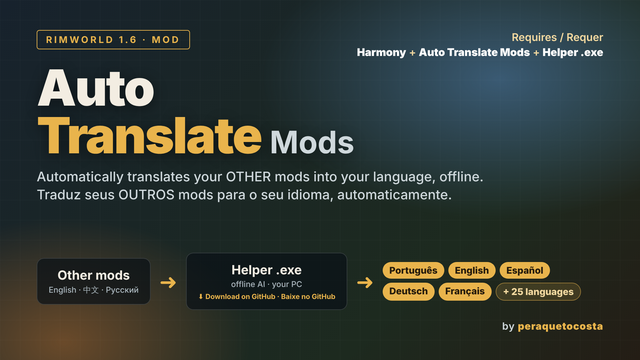
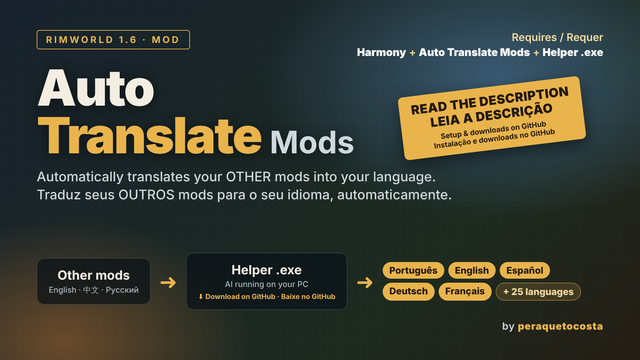
v0.017: capa com faixa 'leia a descrição' e texto sem 'offline'
- Alterado: capa do mod: faixa diagonal "Leia a descrição / Read the description" com "Instalação e downloads no GitHub", e a palavra "offline" saiu (a frase agora diz só que traduz automaticamente).
- Corrigido: README (português e inglês) e descrição do mod no jogo diziam que funciona "sem internet"/"offline"; agora dizem que a tradução é no seu computador, de graça, e que não precisa de internet depois de baixar o modelo do idioma uma vez.

Changed region(s): [[0.625, 0.2139, 0.9375, 0.5194], [0.3438, 0.7639, 0.5, 0.825]]

diff --git a/assets/cover.html b/assets/cover.html
@@ -17,17 +17,21 @@ h1 em{font-style:normal;font-weight:700;color:#cfd8dc;font-size:.62em;letter-spa
 .chip{background:#e9b44c;color:#241a0c;font-weight:800;font-size:28px;padding:8px 20px;border-radius:40px}
 .chip.alt{background:rgba(233,180,76,.16);color:#f3d9a0;border:2px solid rgba(233,180,76,.5)}
 .author{position:absolute;right:0;bottom:-6px;font-size:30px;color:#cfd8dc;font-weight:600;letter-spacing:.04em}.author b{color:#e9b44c}
+.ribbon{position:absolute;right:60px;top:170px;transform:rotate(-7deg);background:#e9b44c;color:#241a0c;padding:20px 36px;border-radius:14px;box-shadow:0 18px 50px rgba(0,0,0,.5);text-align:center}
+.ribbon b{display:block;font-size:38px;font-weight:900;letter-spacing:.02em;line-height:1.15}
+.ribbon span{display:block;font-size:22px;font-weight:700;margin-top:10px}
 .need{position:absolute;right:0;top:0;text-align:right;font-size:32px;color:#f3d9a0;line-height:1.4;font-weight:600}
 .need b{color:#fff}
 </style></head><body><div class="grid"></div><div class="wrap">
 <div class="tag">RimWorld 1.6 · Mod</div>
 <h1>Auto<br><span>Translate</span> <em>Mods</em></h1>
-<div class="sub">Automatically translates your OTHER mods into your language, offline.<br>Traduz seus OUTROS mods para o seu idioma, automaticamente.</div>
+<div class="sub">Automatically translates your OTHER mods into your language.<br>Traduz seus OUTROS mods para o seu idioma, automaticamente.</div>
 <div class="need">Requires / Requer<br><b>Harmony</b> + <b>Auto Translate Mods</b> + <b>Helper .exe</b></div>
 <div class="flow">
 <div class="box">Other mods<small>English · 中文 · Русский</small></div>
 <div class="arrow">➜</div>
-<div class="box">Helper .exe<small>offline AI · your PC</small><small style="color:#e9b44c;font-weight:700;margin-top:10px;font-size:21px">⬇ Download on GitHub · Baixe no GitHub</small></div>
+<div class="box">Helper .exe<small>AI running on your PC</small><small style="color:#e9b44c;font-weight:700;margin-top:10px;font-size:21px">⬇ Download on GitHub · Baixe no GitHub</small></div>
 <div class="arrow">➜</div>
 <div class="langs"><span class="chip">Português</span><span class="chip">English</span><span class="chip">Español</span><span class="chip">Deutsch</span><span class="chip">Français</span><span class="chip alt">+ 25 languages</span></div>
-</div><div class="author">by <b>peraquetocosta</b></div></div></body></html>
+</div><div class="ribbon"><b>READ THE DESCRIPTION<br>LEIA A DESCRIÇÃO</b><span>Setup &amp; downloads on GitHub<br>Instalação e downloads no GitHub</span></div>
+<div class="author">by <b>peraquetocosta</b></div></div></body></html>

diff --git a/helper/rwtranslate/__init__.py b/helper/rwtranslate/__init__.py
@@ -1,1 +1,1 @@
-__version__ = "0.016.0"
+__version__ = "0.017.0"

diff --git a/README.md b/README.md
@@ -10,12 +10,12 @@
 
 <div align="justify">
 
-**Versão atual: 0.016** · [Baixar na aba Releases](../../releases/latest)
+**Versão atual: 0.017** · [Baixar na aba Releases](../../releases/latest)
 
 Traduz **automaticamente** os outros mods do seu jogo para o seu idioma, **sem precisar de um mod de tradução para cada mod**.
-A tradução é feita **no seu computador, sem internet e de graça**. Cada tradução fica salva, então ela só é feita uma vez.
+A tradução é feita **no seu computador e de graça**. Depois de baixar uma vez o modelo do seu idioma, **não precisa de internet**. Cada tradução fica salva, então ela só é feita uma vez.
 
-> **Em desenvolvimento.** Este projeto foi feito com a ajuda do **Claude** (IA da Anthropic) e ainda está em fase inicial (versão atual 0.016). Veja "Estado atual" abaixo.
+> **Em desenvolvimento.** Este projeto foi feito com a ajuda do **Claude** (IA da Anthropic) e ainda está em fase inicial (versão atual 0.017). Veja "Estado atual" abaixo.
 
 <h2 align="left">Compatibilidade</h2>
 
@@ -122,7 +122,7 @@ Com o **modo desenvolvedor** do RimWorld ligado, o próprio jogo marca os textos
 
 <h2 align="left">Estado atual (transparência)</h2>
 
-Esta é uma **versão inicial** (versão atual 0.016), feita com a ajuda do Claude. O mod compila contra a API do RimWorld 1.6 e o código passou nos testes automáticos (inclusive o teste da janela do executável no Windows do GitHub), mas **ainda não foi testado a fundo dentro do RimWorld** nem com muitos mods reais. Podem aparecer erros, principalmente com mods que mexem nos mesmos textos. **A tradução automática não é 100% perfeita**, mas é bem melhor do que jogar com um mod que não está no seu idioma. **Se você encontrar qualquer erro, por favor reporte** (veja "Deu problema ou conflito com um mod?" abaixo): isso ajuda a melhorar o projeto para todo mundo.
+Esta é uma **versão inicial** (versão atual 0.017), feita com a ajuda do Claude. O mod compila contra a API do RimWorld 1.6 e o código passou nos testes automáticos (inclusive o teste da janela do executável no Windows do GitHub), mas **ainda não foi testado a fundo dentro do RimWorld** nem com muitos mods reais. Podem aparecer erros, principalmente com mods que mexem nos mesmos textos. **A tradução automática não é 100% perfeita**, mas é bem melhor do que jogar com um mod que não está no seu idioma. **Se você encontrar qualquer erro, por favor reporte** (veja "Deu problema ou conflito com um mod?" abaixo): isso ajuda a melhorar o projeto para todo mundo.
 
 <h2 align="left">Deu problema ou conflito com um mod?</h2>
 

diff --git a/README.en.md b/README.en.md
@@ -10,12 +10,12 @@
 
 <div align="justify">
 
-**Current version: 0.016** · [Download from the Releases tab](../../releases/latest)
+**Current version: 0.017** · [Download from the Releases tab](../../releases/latest)
 
 Translates the other mods in your game into your language **automatically**, **without needing a translation mod for each mod**.
-The translation runs **on your computer, offline and for free**. Every translation is saved, so it is only done once.
+The translation runs **on your computer and for free**. After the model for your language is downloaded once, **no internet is needed**. Every translation is saved, so it is only done once.
 
-> **Under development.** This project was made with the help of **Claude** (Anthropic's AI) and is still at an early stage (current version 0.016). See "Current status" below.
+> **Under development.** This project was made with the help of **Claude** (Anthropic's AI) and is still at an early stage (current version 0.017). See "Current status" below.
 
 <h2 align="left">Compatibility</h2>
 
@@ -122,7 +122,7 @@ With RimWorld's **developer mode** on, the game itself marks the texts that have
 
 <h2 align="left">Current status (transparency)</h2>
 
-This is an **early version** (current version 0.016), made with the help of Claude. The mod compiles against the RimWorld 1.6 API and the code passed the automated tests (including the executable's window test on GitHub's Windows), but it **has not yet been tested in depth inside RimWorld** nor with many real mods. Errors may appear, mainly with mods that touch the same texts. **Automatic translation is not 100% perfect**, but it is much better than playing with a mod that is not in your language. **If you find any mistake, please report it** (see "Problem or conflict with a mod?" below): it helps improve the project for everyone.
+This is an **early version** (current version 0.017), made with the help of Claude. The mod compiles against the RimWorld 1.6 API and the code passed the automated tests (including the executable's window test on GitHub's Windows), but it **has not yet been tested in depth inside RimWorld** nor with many real mods. Errors may appear, mainly with mods that touch the same texts. **Automatic translation is not 100% perfect**, but it is much better than playing with a mod that is not in your language. **If you find any mistake, please report it** (see "Problem or conflict with a mod?" below): it helps improve the project for everyone.
 
 <h2 align="left">Problem or conflict with a mod?</h2>
 

diff --git a/CHANGELOG.md b/CHANGELOG.md
@@ -4,6 +4,10 @@ Versioning: `0.NNN` (0.001, 0.002, ...) until the maintainer declares 1.0. **Eve
 (newest first). The same text goes in the commit message: `v0.NNN: short title` + list of changes.
 Version lives in `VERSION`; run `python tools/set_version.py` to sync it into the helper and the mod.
 
+## v0.017 - 2026-10-14
+- Alterado: capa do mod: faixa diagonal "Leia a descrição / Read the description" com "Instalação e downloads no GitHub", e a palavra "offline" saiu (a frase agora diz só que traduz automaticamente).
+- Corrigido: README (português e inglês) e descrição do mod no jogo diziam que funciona "sem internet"/"offline"; agora dizem que a tradução é no seu computador, de graça, e que não precisa de internet depois de baixar o modelo do idioma uma vez.
+
 ## v0.016 - 2026-10-14
 - Alterado: descrição do mod no jogo (inglês e português): "EM DESENVOLVIMENTO" em uma linha própria, "Feito com a ajuda do Claude Code", aviso de erros e bugs de tradução para reportar, uma linha em branco entre os blocos, e sem o link do Harmony (a dependência já mostra o botão de assinar); a versão saiu da descrição.
 - Alterado: o mod agora se chama "Auto Translate Mods" e o autor é "peraquetocosta".
